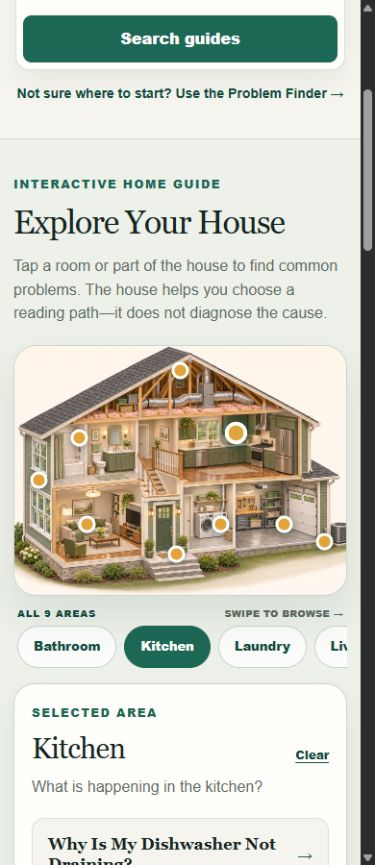
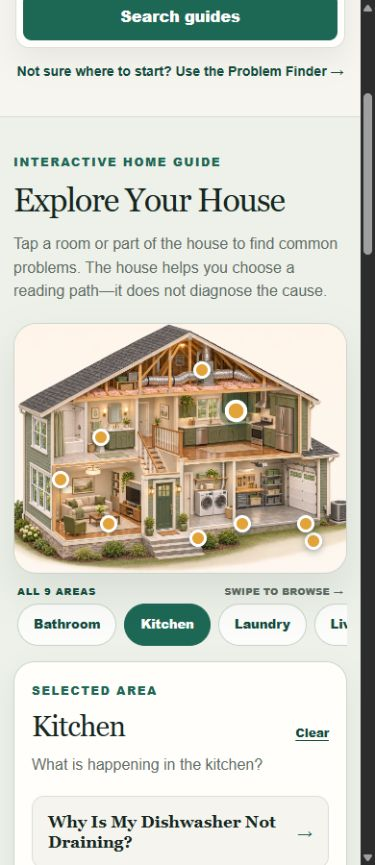
fix: preserve mobile explorer hotspot alignment

diff --git a/app/globals.css b/app/globals.css
@@ -320,6 +320,7 @@ table { display: block; max-width: 100%; overflow-x: auto; }
     min-width: 45px;
     height: 45px;
     min-height: 45px;
+    position: absolute;
     left: var(--hotspot-mobile-x);
     top: var(--hotspot-mobile-y);
     justify-content: center;

diff --git a/docs/visual-audits/mobile-house-explorer/README.md b/docs/visual-audits/mobile-house-explorer/README.md
@@ -33,7 +33,7 @@ The old stage height included a large two-column selector below a comparatively 
 The `baseline/` directory contains production screenshots from the starting commit. The `after/` directory contains the local exported build at all required breakpoints:
 
 - 320, 375, 390, 430, 600, 700, 768, 1024, and 1440px initial states
-- 390px Kitchen-selected state
+- Kitchen-selected states at 375, 390, 430, and 1440px
 - 390px Classic and Explorer V1 restoration-mode checks
 - full-page and explorer-section views
 
@@ -49,3 +49,5 @@ The `baseline/` directory contains production screenshots from the starting comm
 - The 768px, 1024px, and 1440px screenshots confirm the existing non-mobile composition is unchanged.
 
 Interactive browser checks covered every hotspot, the horizontal rail, keyboard activation, recommendation links, one-time entrance motion, reduced motion, and the required responsive widths. Real iOS rubber-band behavior was not available in this environment and remains a device-only limitation.
+
+The mandatory refinement pass moved the edge-adjacent HVAC and Front Door targets inward and added a Detailed-only absolute-positioning override. The final 320, 375, 390, and 430px rendered checks confirm every full 45px target remains inside the clipped visual stage after selection.
